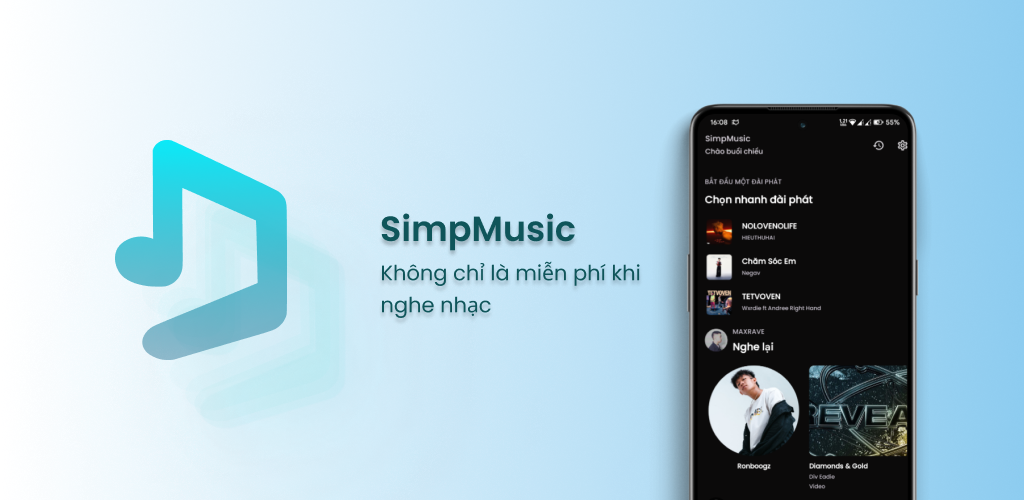
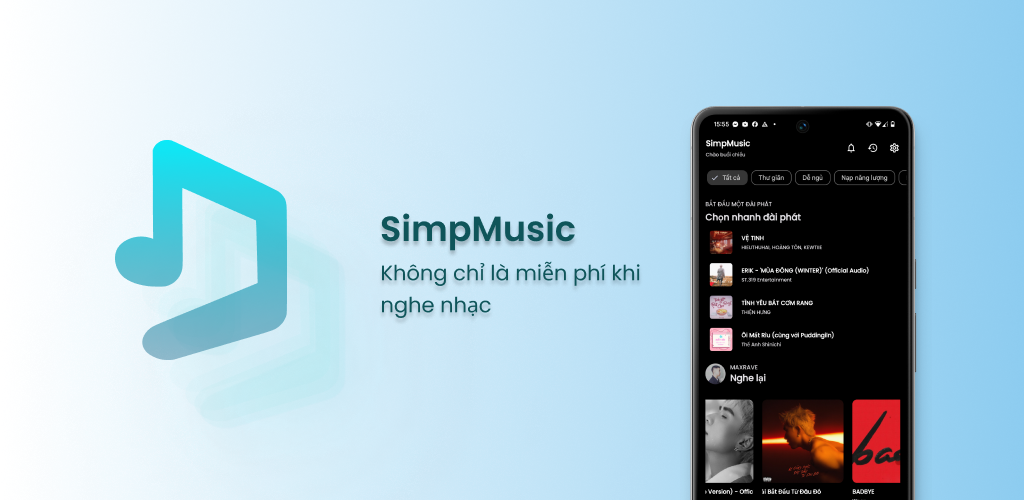
Improve Home Page Filter

Changed region(s): [[0.625, 0.18, 0.9062, 1.0]]

diff --git a/app/src/main/java/com/maxrave/simpmusic/viewModel/SharedViewModel.kt b/app/src/main/java/com/maxrave/simpmusic/viewModel/SharedViewModel.kt
@@ -296,7 +296,6 @@ constructor(
                 }
             }
         }
-//        initJob =
         viewModelScope.launch {
             val job1 =
                 launch {
@@ -326,11 +325,22 @@ constructor(
 
                             is SimpleMediaState.Progress -> {
                                 if (mediaState.progress >= 0L && mediaState.progress != _timeline.value.current) {
-                                    _timeline.update {
-                                        it.copy(
-                                            current = mediaState.progress,
-                                            loading = false
-                                        )
+                                    if (_timeline.value.total > 0L) {
+                                        _timeline.update {
+                                            it.copy(
+                                                current = mediaState.progress,
+                                                loading = false
+                                            )
+                                        }
+                                    }
+                                    else {
+                                        _timeline.update {
+                                            it.copy(
+                                                current = mediaState.progress,
+                                                loading = true,
+                                                total = handler.getPlayerDuration()
+                                            )
+                                        }
                                     }
                                 }
                                 else {
@@ -354,7 +364,7 @@ constructor(
                             is SimpleMediaState.Ready -> {
                                 _timeline.update {
                                     it.copy(
-                                        current = simpleMediaServiceHandler!!.getProgress(),
+                                        current = handler.getProgress(),
                                         loading = false,
                                         total = mediaState.duration
                                     )

diff --git a/app/src/main/java/com/maxrave/simpmusic/extension/UIExt.kt b/app/src/main/java/com/maxrave/simpmusic/extension/UIExt.kt
@@ -16,12 +16,14 @@ import androidx.compose.foundation.gestures.animateScrollBy
 import androidx.compose.foundation.lazy.LazyListItemInfo
 import androidx.compose.foundation.lazy.LazyListState
 import androidx.compose.runtime.Composable
+import androidx.compose.runtime.LaunchedEffect
 import androidx.compose.runtime.derivedStateOf
 import androidx.compose.runtime.getValue
 import androidx.compose.runtime.mutableIntStateOf
 import androidx.compose.runtime.mutableStateOf
 import androidx.compose.runtime.remember
 import androidx.compose.runtime.setValue
+import androidx.compose.runtime.snapshotFlow
 import androidx.compose.ui.Modifier
 import androidx.compose.ui.composed
 import androidx.compose.ui.draw.DrawModifier
@@ -358,12 +360,19 @@ fun KeepScreenOn() = AndroidView({ View(it).apply { keepScreenOn = true } })
 fun LazyListState.isScrollingUp(): Boolean {
     var previousIndex by remember(this) { mutableIntStateOf(firstVisibleItemIndex) }
     var previousScrollOffset by remember(this) { mutableIntStateOf(firstVisibleItemScrollOffset) }
+
+    LaunchedEffect(Unit) {
+        snapshotFlow { layoutInfo.totalItemsCount }.collect {
+            Log.w("isScrollingUp", "firstVisibleItemIndex: $firstVisibleItemIndex")
+            previousIndex = firstVisibleItemIndex
+            previousScrollOffset = firstVisibleItemScrollOffset
+        }
+    }
+
     return remember(this) {
         derivedStateOf {
-            if (firstVisibleItemIndex == 0) {
-                return@derivedStateOf true
-            }
-            else {
+            Log.w("isScrollingUp", "offset: $firstVisibleItemScrollOffset")
+            if (firstVisibleItemIndex > 0)  {
                 if (previousIndex != firstVisibleItemIndex) {
                     previousIndex > firstVisibleItemIndex
                 } else {
@@ -372,6 +381,9 @@ fun LazyListState.isScrollingUp(): Boolean {
                     previousIndex = firstVisibleItemIndex
                     previousScrollOffset = firstVisibleItemScrollOffset
                 }
+            }
+            else {
+                true
             }
         }
     }.value

diff --git a/app/src/main/java/com/maxrave/simpmusic/ui/screen/home/HomeScreen.kt b/app/src/main/java/com/maxrave/simpmusic/ui/screen/home/HomeScreen.kt
@@ -121,8 +121,8 @@ fun HomeScreen(
     val moodMomentAndGenre by viewModel.exploreMoodItem.collectAsState()
     val chartLoading by viewModel.loadingChart.collectAsState()
     val loading by viewModel.loading.collectAsState()
-    val accountShow by rememberSaveable {
-        mutableStateOf(homeData.find { it.subtitle == accountInfo?.first } != null)
+    var accountShow by rememberSaveable {
+        mutableStateOf(false)
     }
     val regionChart by viewModel.regionCodeChart.collectAsState()
     val homeRefresh by sharedViewModel.homeRefresh.collectAsState()
@@ -140,10 +140,14 @@ fun HomeScreen(
         }
     if (pullToRefreshState.isRefreshing) {
         viewModel.getHomeItemList()
+        viewModel.getHomeItemList()
         if (!loading) {
             pullToRefreshState.endRefresh()
             sharedViewModel.homeRefreshDone()
         }
+    }
+    LaunchedEffect(key1 = homeData) {
+        accountShow = homeData.find { it.subtitle == accountInfo?.first } == null
     }
     LaunchedEffect(key1 = homeRefresh) {
         Log.w("HomeScreen", "homeRefresh: $homeRefresh")

diff --git a/README.md b/README.md
@@ -23,10 +23,10 @@
 - Analyze your playing data, create custom playlists, and sync with YouTube Music...
 - Spotify Canvas supported
 - Play 1080p video option with subtitle
-- AI suggest songs
+- AI suggestions songs
 - Notification from followed artists
 - Caching and can save data for offline playback
-- Synced lyrics from Musixmatch, Spotify (require login) and YouTube Transcript and translated lyrics (Community translation from Musixmatch)
+- Synced lyrics from Musixmatch, LRCLIB, Spotify (require login) and YouTube Transcript and translated lyrics (Community translation from Musixmatch)
 - Personalize data (*) and multi-YouTube-account support
 - Support SponsorBlock, Return YouTube Dislike
 - Sleep Timer
@@ -43,20 +43,21 @@
 ## Screenshots
 
 <p align="center">  
-  <img src="https://github.com/maxrave-dev/SimpMusic/blob/jetpack_compose/asset/screenshot/2.jpg?raw=true" width="200" />  
-  <img src="https://github.com/maxrave-dev/SimpMusic/blob/jetpack_compose/asset/screenshot/3.jpg?raw=true" width="200" />  
-   <img src="https://github.com/maxrave-dev/SimpMusic/blob/jetpack_compose/asset/screenshot/4.jpg?raw=true" width="200" />  
-   <img src="https://github.com/maxrave-dev/SimpMusic/blob/jetpack_compose/asset/screenshot/5.jpg?raw=true" width="200" />  
+  <img src="https://github.com/maxrave-dev/SimpMusic/blob/jetpack_compose/asset/screenshot/2.png?raw=true" width="200" />  
+  <img src="https://github.com/maxrave-dev/SimpMusic/blob/jetpack_compose/asset/screenshot/3.png?raw=true" width="200" />  
+   <img src="https://github.com/maxrave-dev/SimpMusic/blob/jetpack_compose/asset/screenshot/4.png?raw=true" width="200" />  
+   <img src="https://github.com/maxrave-dev/SimpMusic/blob/jetpack_compose/asset/screenshot/5.png?raw=true" width="200" />  
 </p>  
 <p align="center">  
-  <img src="https://github.com/maxrave-dev/SimpMusic/blob/jetpack_compose/asset/screenshot/6.jpg?raw=true" width="200" />  
-  <img src="https://github.com/maxrave-dev/SimpMusic/blob/jetpack_compose/asset/screenshot/7.jpg?raw=true" width="200" />  
-   <img src="https://github.com/maxrave-dev/SimpMusic/blob/jetpack_compose/asset/screenshot/8.jpg?raw=true" width="200" />  
-   <img src="https://github.com/maxrave-dev/SimpMusic/blob/jetpack_compose/asset/screenshot/9.jpg?raw=true" width="200" />  
+  <img src="https://github.com/maxrave-dev/SimpMusic/blob/jetpack_compose/asset/screenshot/6.png?raw=true" width="200" />  
+  <img src="https://github.com/maxrave-dev/SimpMusic/blob/jetpack_compose/asset/screenshot/7.png?raw=true" width="200" />  
+   <img src="https://github.com/maxrave-dev/SimpMusic/blob/jetpack_compose/asset/screenshot/8.png?raw=true" width="200" />  
+   <img src="https://github.com/maxrave-dev/SimpMusic/blob/jetpack_compose/asset/screenshot/9.png?raw=true" width="200" />  
 </p> 
 <p align="center">  
-  <img src="https://github.com/maxrave-dev/SimpMusic/blob/jetpack_compose/asset/screenshot/10.jpg?raw=true" width="200" />  
-  <img src="https://github.com/maxrave-dev/SimpMusic/blob/jetpack_compose/asset/screenshot/11.jpg?raw=true" width="200" /> 
+  <img src="https://github.com/maxrave-dev/SimpMusic/blob/jetpack_compose/asset/screenshot/10.png?raw=true" width="200" />  
+  <img src="https://github.com/maxrave-dev/SimpMusic/blob/jetpack_compose/asset/screenshot/11.png?raw=true" width="200" /> 
+  <img src="https://github.com/maxrave-dev/SimpMusic/blob/jetpack_compose/asset/screenshot/12.png?raw=true" width="200" /> 
 </p>  
 
 #### More [screenshot](https://photos.app.goo.gl/AbieoXG5ctDrpwzp7) here.
@@ -68,7 +69,7 @@
 - Thanks to [InnerTune](https://github.com/z-huang/InnerTune/) for the idea to get data from YouTube Music. This repo is my inspiration to create this app
 - My app is using [SponsorBlock](https://sponsor.ajay.app/) to skip sponsor in YouTube videos.
 - ReturnYouTubeDislike for getting information on votes
-- Lyrics data from Musixmatch. More information [Musixmatch](https://developer.musixmatch.com/)
+- Lyrics data from Musixmatch and LRCLIB. More information [Musixmatch](https://developer.musixmatch.com/), [LRCLIB](https://lrclib.net/)
 
 ## Privacy
 
@@ -152,7 +153,7 @@ Simply, because I love this name. It's a combination of Simple and Music. But Si
 
 ### [maxrave-dev](https://github.com/maxrave-dev/SimpMusic): Founder/Developer/Designer 
 
-### [owen connor](https://github.com/owencz1998): Discord Server Admin. 
+### [Owen Connor](https://github.com/owencz1998): Discord Server Admin. 
 
 ## Support & Donations
 <div align="left">
@@ -165,7 +166,7 @@ Simply, because I love this name. It's a combination of Simple and Music. But Si
 &nbsp;
 <a href="https://liberapay.com/maxrave/"><img alt="liberapay" height="50"
 src="https://raw.githubusercontent.com/liberapay/liberapay.com/master/www/assets/liberapay/logo-v2_black-on-yellow.svg"></a>
-<div/>
+</div>
 
 ### MOMO or Vietnamese banking
 <p float="left">
